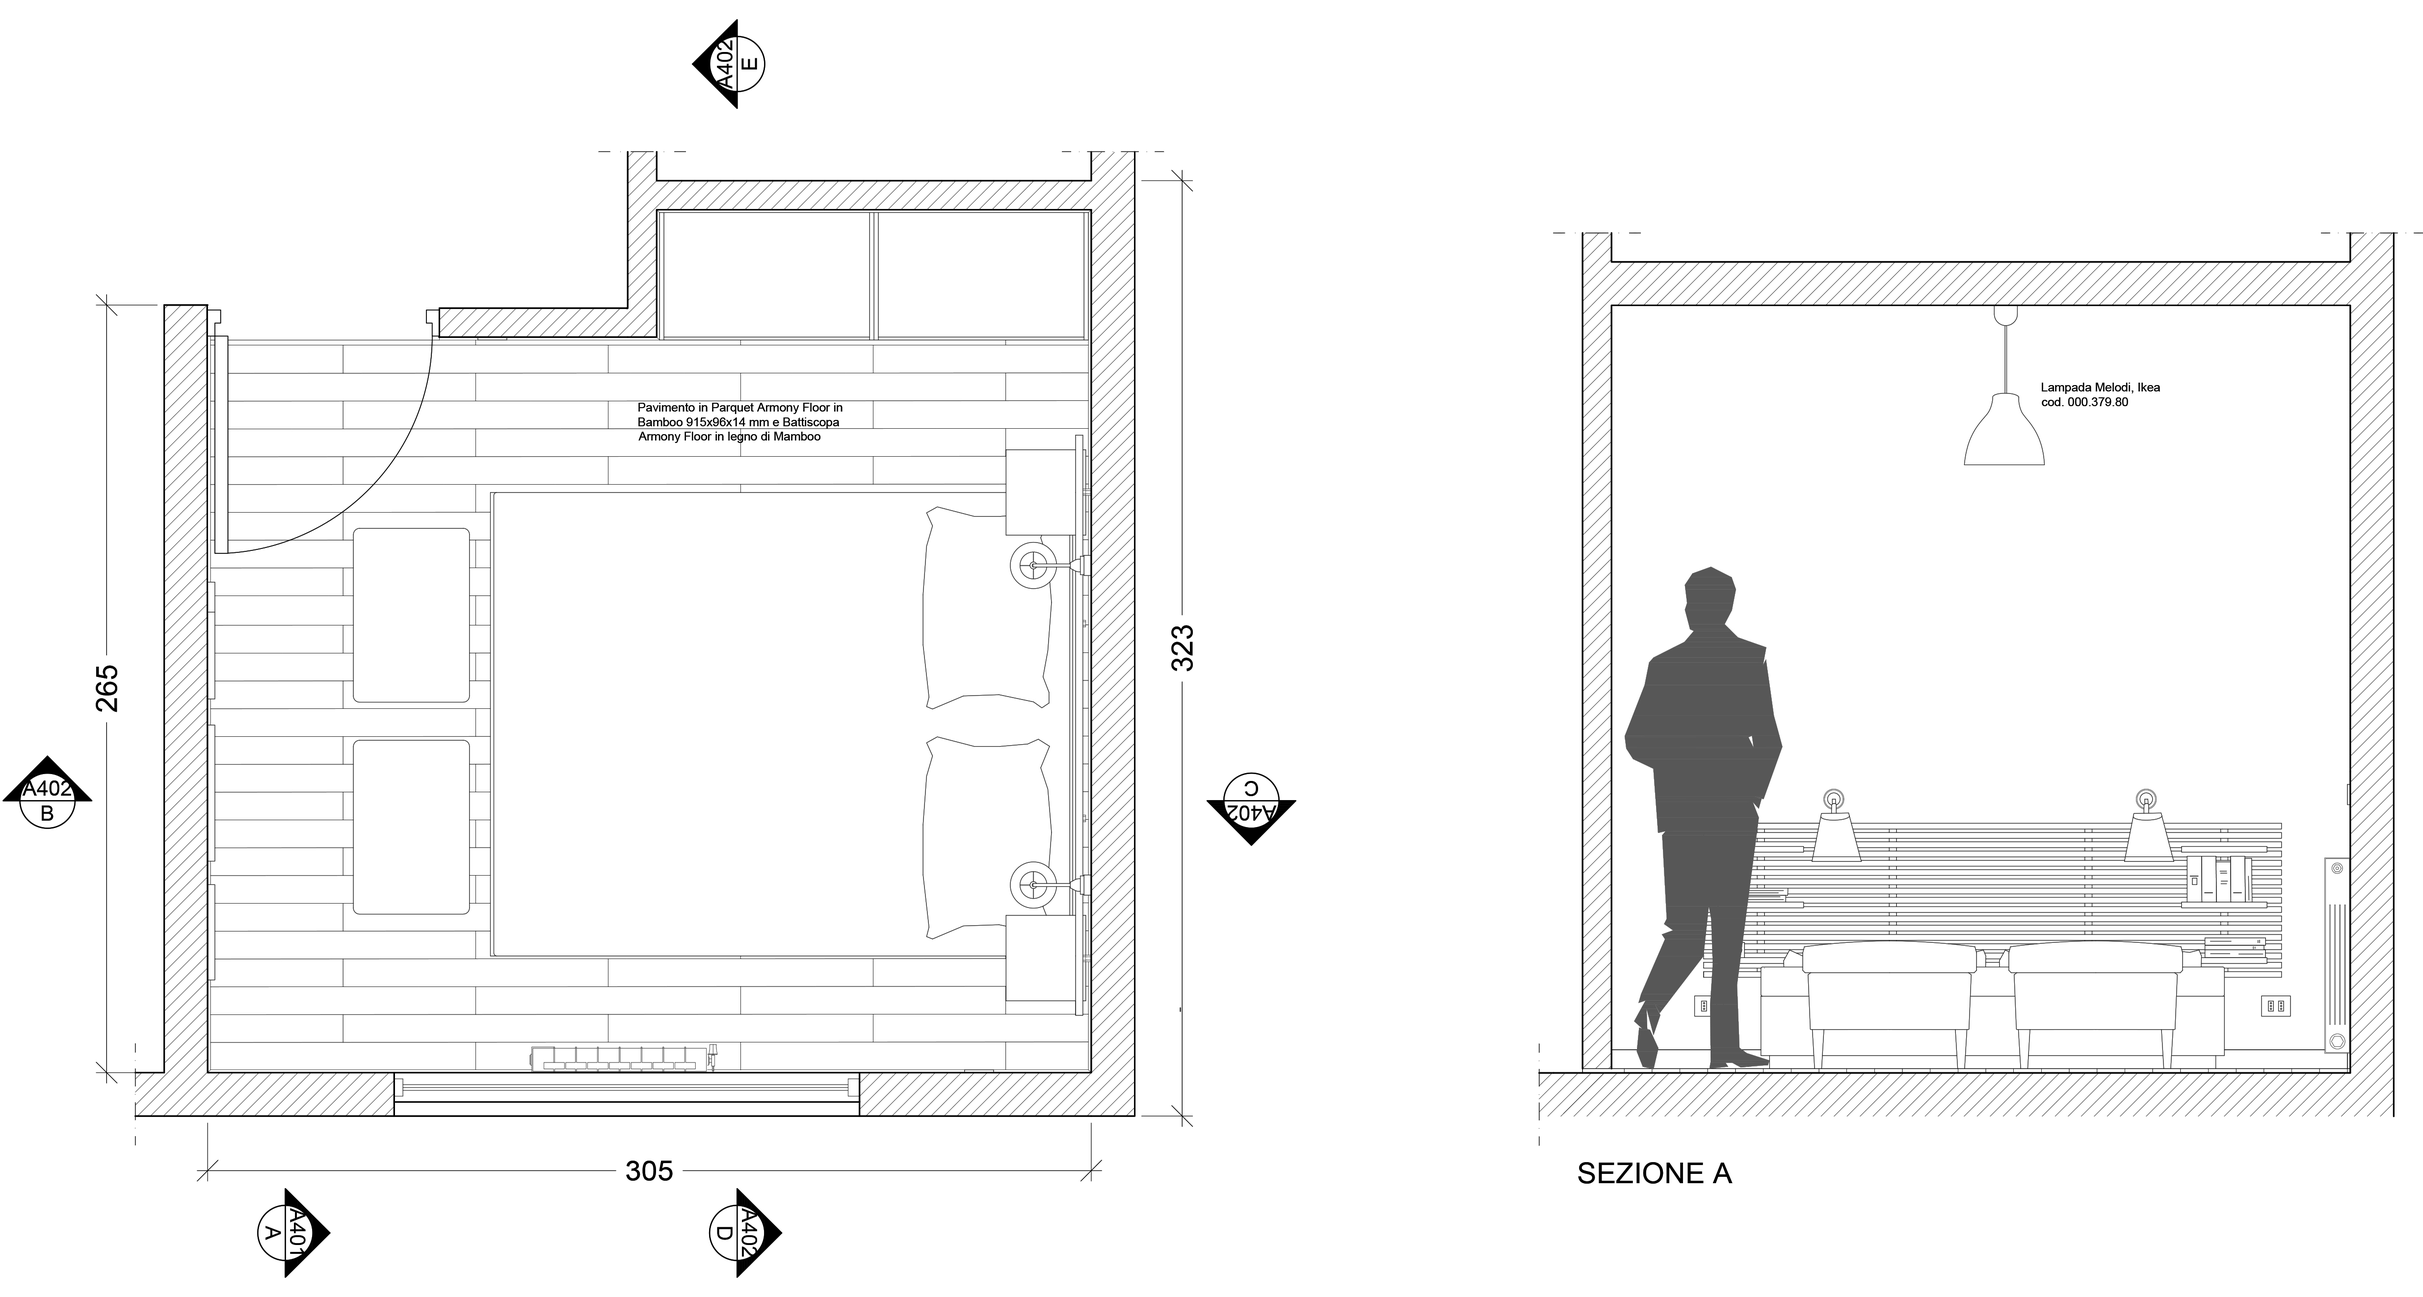
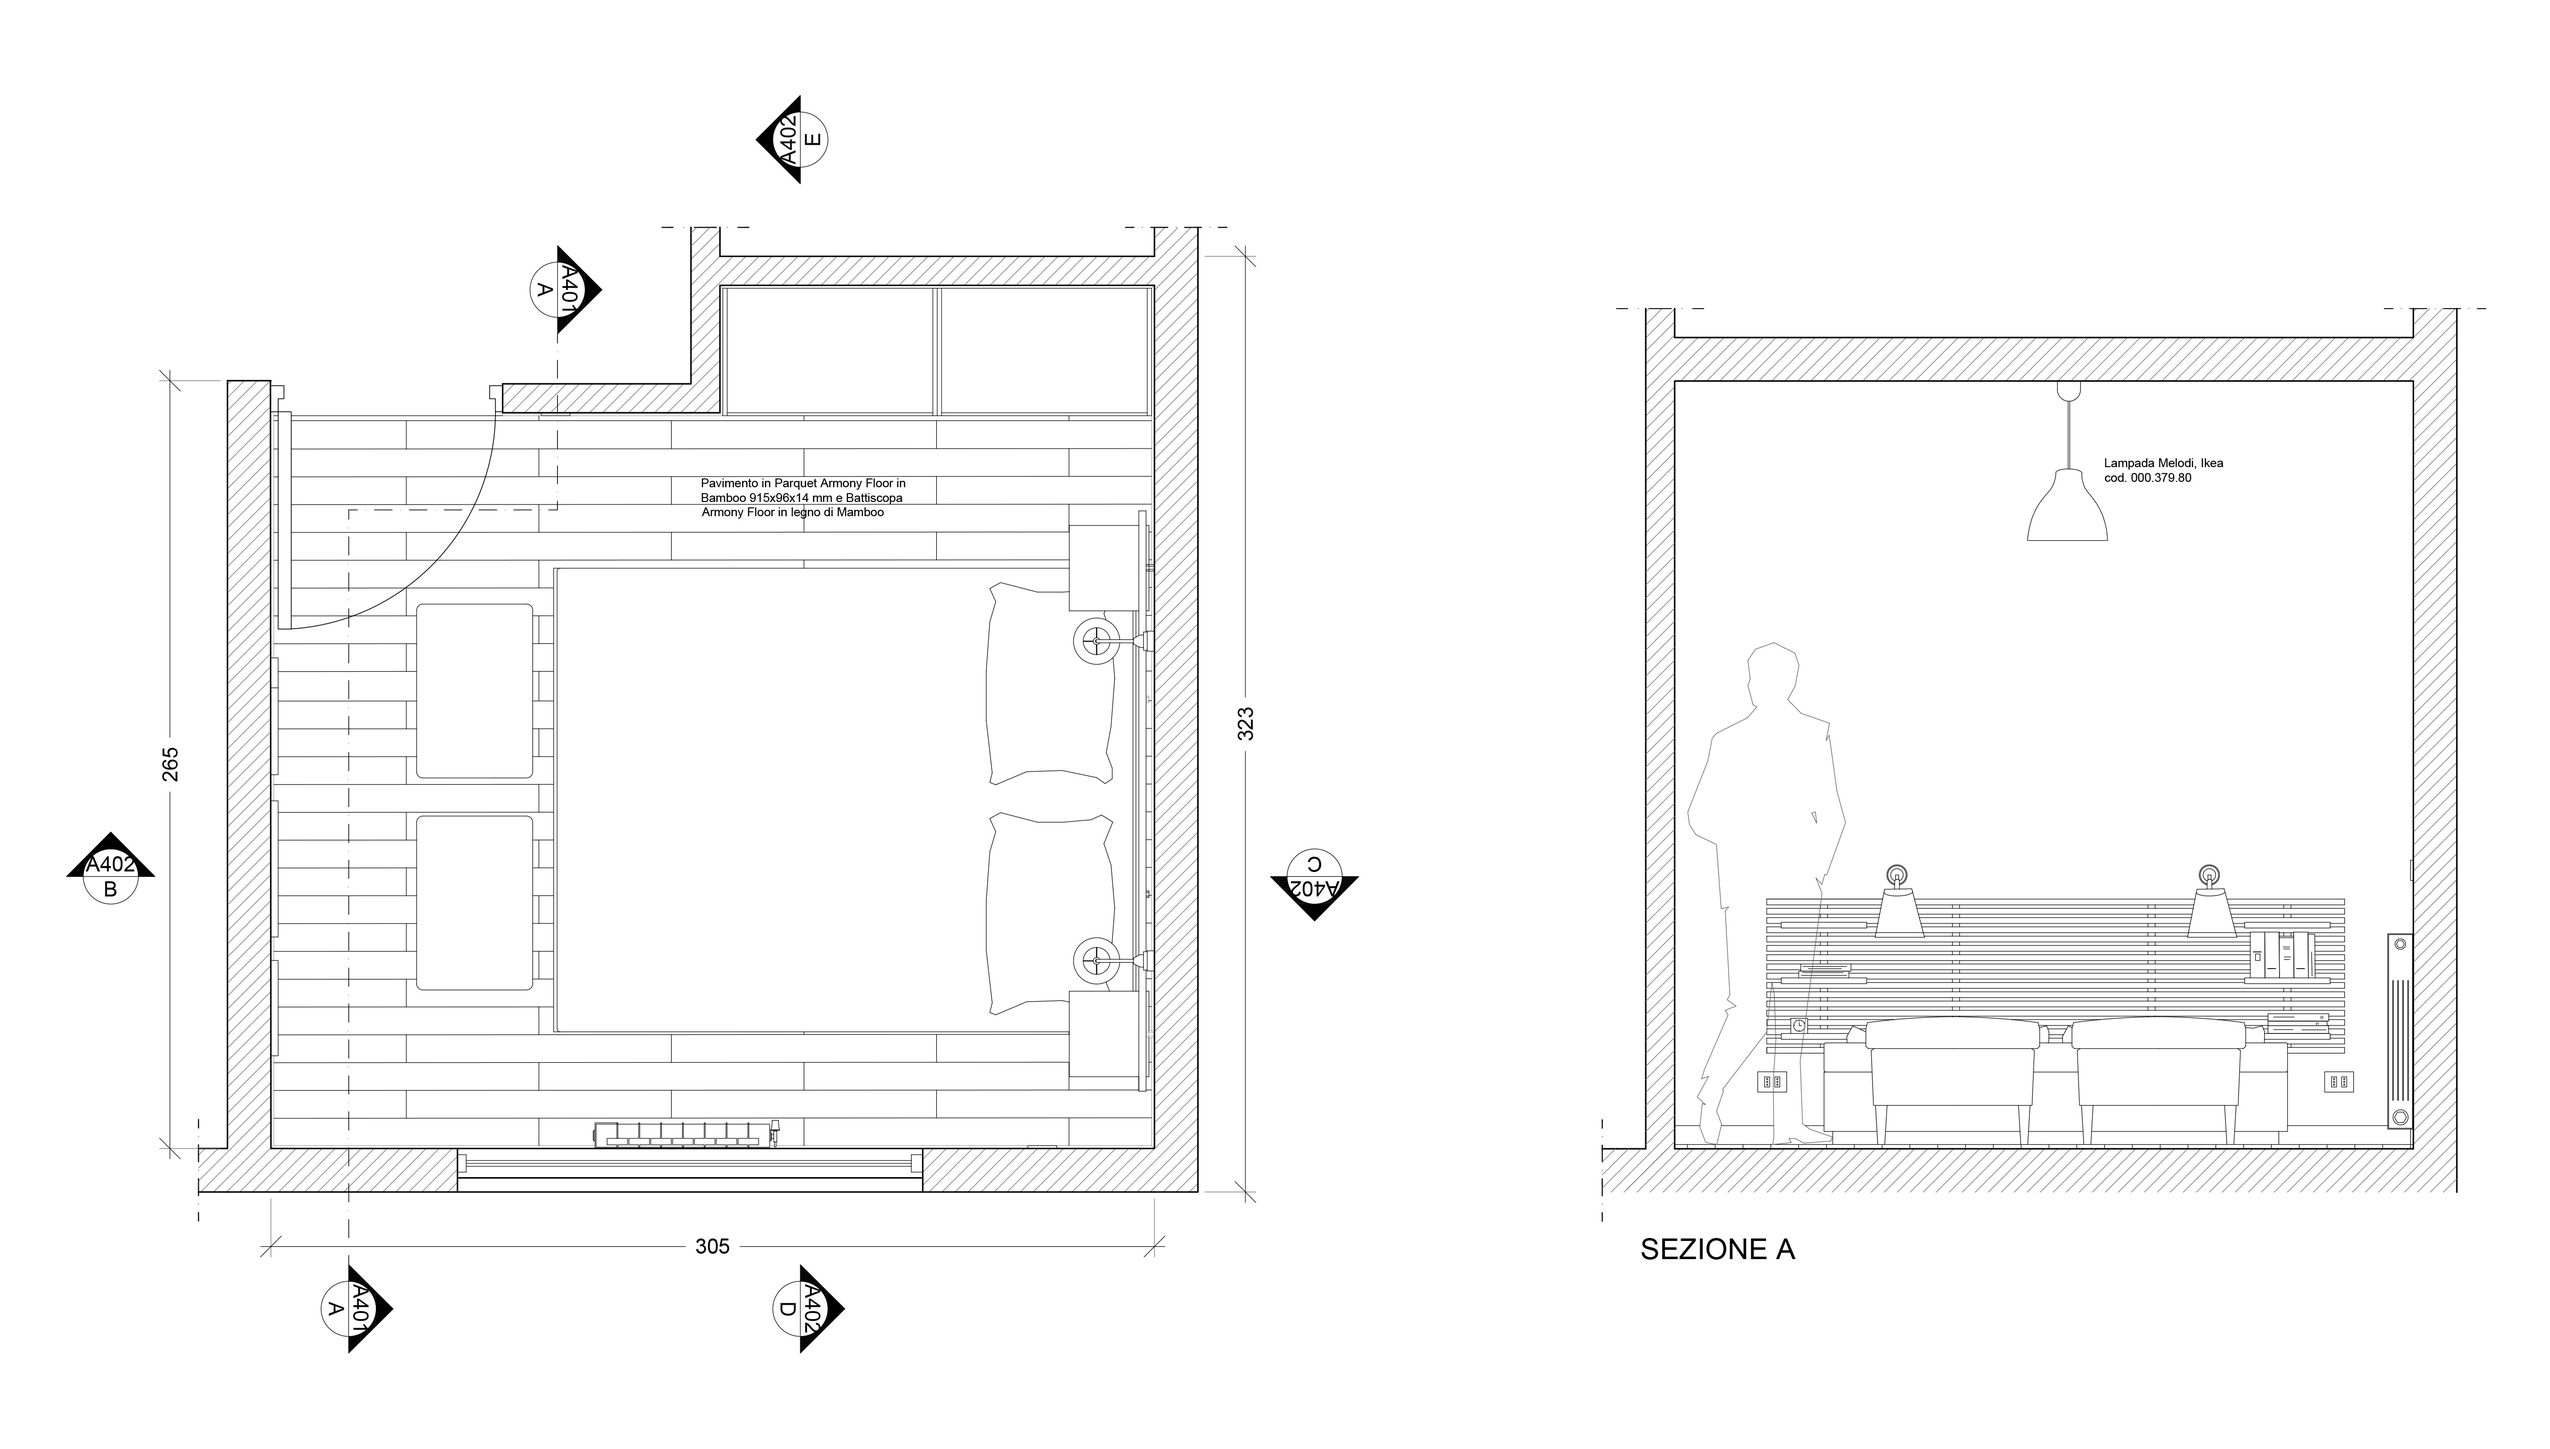
sito
modifiche varie

diff --git a/projects/MO-S_2/MO-S_2-camera.html b/projects/MO-S_2/MO-S_2-camera.html
@@ -25,12 +25,19 @@ Ambiente Camera - Anna Buccarelli
 <a href="IMG/39.jpg"><img src="IMG/39.jpg"alt="Pianta e Sezione"height="500";width="800"></a>
 <aside>
 
+  <aside>
+  <p1>
+Per la progettazione della camera da letto sono stati utilizzati alcuni mobili del nuovo catalogo Ikea, come l’armadio Pax, il letto Mandal e il poggiapiedi Strandmnon. Per impreziosire la stanza, e renderla il più accogliente possibile senza sovraccaricarla eccessivamente, sono stati aggiunti complementi d’arredo tra la collezione Leroy Merlin e Ikea, rispettivamente per gli apparecchi di riscaldamento e di illuminazione. Per la pavimentazione la scelta è invece ricaduta sul parquet in legno di Bamboo, ottimo per la sua resistenza ai graffi e all’usura e per il rapporto qualità prezzo. 
+  </p1>
+  <aside>
+
+
 <h2> Arredi utilizzati </h2>
 <center>
   <div>
-  <p1>
+  <p3>
   Letto Mandal-IKEA-cod.890.949.48
-</p1>
+</p3>
 </div>
 </center>
 
@@ -56,15 +63,52 @@ Ambiente Camera - Anna Buccarelli
 <a href="IMG/47.jpg"><img src="IMG/47.jpg"alt="47"height="500";width="800"></a>
 <aside>
 
+
+  <center>
+    <div>
+      <p3>
+        Misure del prodotto e caratteristiche principali
+    </p3>
+    </div>
+    </center>
+
+  <center>
+  <p1>
+  Larghezza: 160 cm
+  </p1>
+  </center>
+
+    <center>
+    <p1>
+   Lunghezza: 202 cm
+  </p1>
+  </center>
+
+  <center>
+  <p1>
+  Lunghezza materasso: 200 cm
+  </p1>
+  </center>
+
+  <center>
+  <p1>
+  Larghezza materasso: 160 cm
+  </p1>
+  </center>
+
+
   <aside>
-  <a href="IMG/48.jpg"><img src="IMG/48.jpg"alt="48"height="500";width="800"></a>
+  <p1>
+  MANDAL è un letto matrimoniale disegnato da Nike Karlsson per l'azienda IKEA. Il letto è dotato nella porzione inferiore di alcuni cassetti molto capoienti che permettono di sfruttare al massimo lo spazio sotto il materasso .
+  La struttura, realizzata in legno di betulla, dà una sensazione di calore ed è molto resistente nonostante l'esile apparenza. La testiera, elegante e di effetto, è dotata di ripiani che permettono di riporre libri e oggetti di prima necessità.
+  </p1>
   <aside>
 
 <center>
 <div>
-  <p1>
+  <p3>
   Guardaroba Pax-IKEA-cod.491.282.57
-</p1>
+</p3>
 </div>
 </center>
 
@@ -92,17 +136,49 @@ Ambiente Camera - Anna Buccarelli
 <a href="IMG/56.jpg"><img src="IMG/56.jpg"alt="56"height="500";width="800"></a>
 <aside>
 
-  <aside>
-  <a href="IMG/57.jpg"><img src="IMG/57.jpg"alt="57"height="500";width="800"></a>
-  <aside>
+
+    <center>
+      <div>
+        <p3>
+          Misure del prodotto e caratteristiche principali
+      </p3>
+      </div>
+      </center>
+
+    <center>
+    <p1>
+    Larghezza: 150 cm
+    </p1>
+    </center>
+
+      <center>
+      <p1>
+     Profondità: 44 cm
+    </p1>
+    </center>
+
+    <center>
+    <p1>
+   Altezza: 202 cm
+    </p1>
+    </center>
+
+
+    <aside>
+    <p1>
+    PAX è un guardaroba disegnato da Ehlén Johansson per l'azienda IKEA.La profondità ridotta della struttura la rende ideale per gli spazi ridotti.
+    Le ante scorrevoli sono una soluzione salvaspazio perché non occupano posto quando vengono spalancate.
+    <aside>
+
+
 
 <center>
   <h2> Complementi d'arredo utilizzati </h2>
 
     <div>
-    <p1>
+    <p3>
     Lampada Arstid-IKEA-cod.601.638.76
-  </p1>
+  </p3>
   </div>
 
 
@@ -112,9 +188,9 @@ Ambiente Camera - Anna Buccarelli
   <a href="IMG/61.jpg"><img class="object-fit_fill"src="IMG/61.jpg"alt="61"height="150";width="150"></a>
 
   <div>
-  <p1>
+  <p3>
   Poggiapiedi Strandmon-IKEA-cod.503.398.31
-</p1>
+</p3>
 </div>
 
 

diff --git a/projects/MO-S_2/MO-S_2-studio.html b/projects/MO-S_2/MO-S_2-studio.html
@@ -25,7 +25,11 @@ Ambiente Studio - Alessandro Ceccato
 
   <aside>
   <p1>
-
+La progettazione dell'ambiente studio/soggiorno è partita dalla disposizione degli arredi con funzioni essenziali allo spazio in questione.
+Il divano a tre posti può ospitare tranquillamente tutti i membri del nucleo familiare a cui l'abitazione è destinata e il mobile tv è in grado di svolgere anche la funzione di libreria dove riporre oggetti personali, foto ricordo e libri.
+La posizione del divano, con la chaise-longue rivolta verso la zona di transizione tra la cucina e le camere, permette di creare una sorta di separazione tra quest'ultima e l'area relax del soggiorno, luogo in cui rilassarsi e guardare la televisione.
+Definiti i rapporti spaziali fra gli arredi, l'attenzione si è focalizzata sulla scelta dei complementi d'arredo quali i sistemi di illuminazione,il televisore e gli oggetti che conferiscono un carattere specifico all' ambiente. Trattandosi di un progetto per la costruzione di case popolari
+sia gli arredi che i complementi d'arredo sono stati selezionati all' interno dei cataloghi di aziende quali IKEA e Leroy Merlin. Il risultato finale mira a creare un ambiente accogliente e semplice dove il poco spazio viene sfruttato al massimo cercando, al contempo, di mantenere un' armonia di fondo ed evitare un eccessivo sovraccarico di elementi.
   </p1>
   <aside>
 

diff --git a/projects/MO-S_2/index.html b/projects/MO-S_2/index.html
@@ -1,4 +1,4 @@
-<html>
+  <html>
 	<head>
 		<meta charset="utf-8">
 		<title>MONTERREY-MO-S_2</title>
@@ -15,7 +15,8 @@
 			<ul>
 				<li>Gruppo MO-S_2</li>
 			<li></li><a id="link" href="file:///C:/Users/User/Documents/GitHub/strumet.github.io/projects/MO-S_2/MO-S_2-studio.html">Studio</a>
-			<li></li><a id="link" href="file:///C:/Users/User/Documents/GitHub/strumet.github.io/projects/MO-S_2/MO-S_2-camera.html">Camera</a>
+			 <li></li><a id="link" href="file:///C:/Users/User/Documents/GitHub/strumet.github.io/projects/MO-S_2/MO-S_2-camera.html">Camera</a>
+
 			  </ul>
 
 				  <aside>
@@ -57,7 +58,7 @@
 
 				<h2>Monterrey Housing - proposta progettuale</h2>
 
-				<a href="IMG/11.jpg"><img src="IMG/11.jpg"alt="11.jpg"height="800";width="800"></a>
+				<a href="IMG/11.jpg"><img src="IMG/11.jpg"alt="11.jpg"height="650";width="800"></a>
 
 
 
